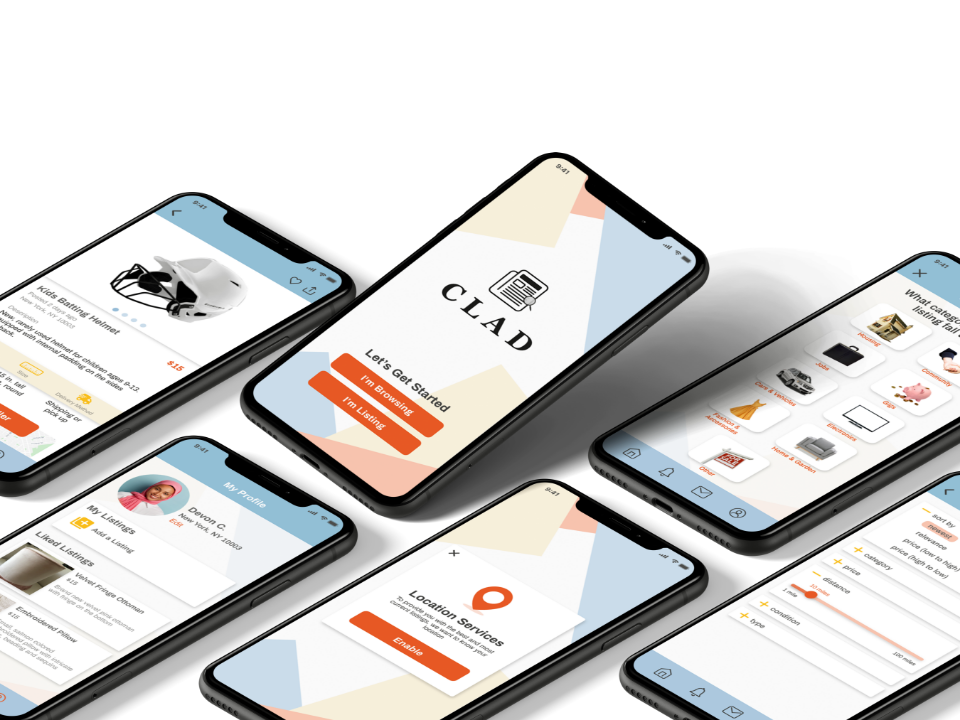
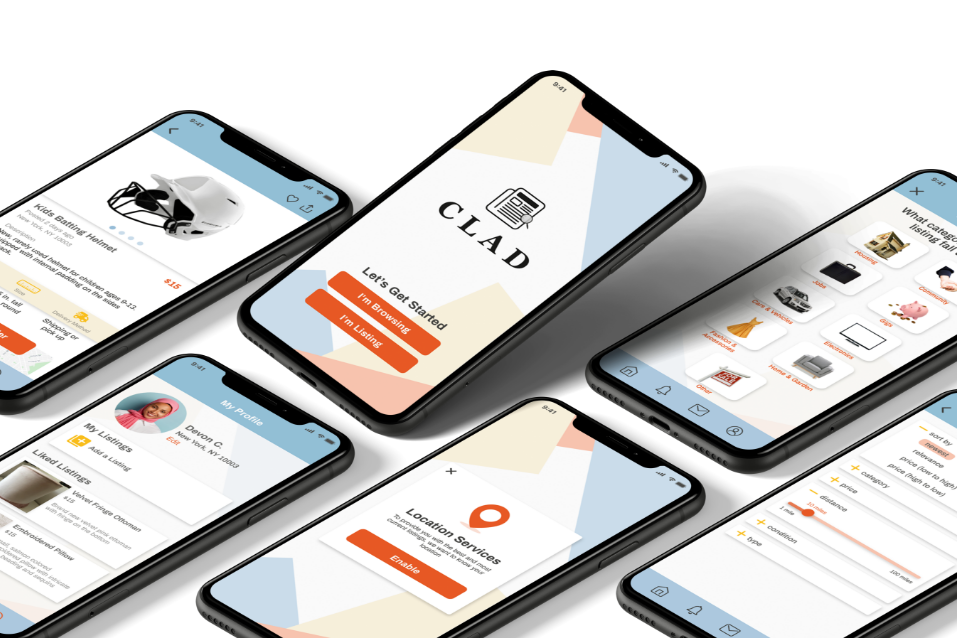
changes to clad opening images

diff --git a/clad.html b/clad.html
@@ -63,18 +63,26 @@
 	<main id="project">
 		<!--Open Main Project Section-->
 		<div class="container">
-			<div class="section">
+			<div id="clad" class="section">
 				<!-- Open Intro Section-->
 				<div class="center">
 					<h2>CLAD</h2>
 					<p class="first">A mobile application for classified ads</p>
+				</div>
+			</div> <!-- Close Intro Section-->
+		</div>
+
 					<div>
 						<picture>
-							<source srcset="img/clad/overview/opening-img.png" media="(max-width:767px)">
-							<img class="max-width-250 center padded-img" src="img/clad/overview/opening-img@2x.png" alt="CLAD project image">
+							<source srcset="img/clad/mastheads/clad-masthead-all-screens.png" media="(max-width:767px)">
+							<img src="img/clad/mastheads/clad-masthead-all-screens@2x.png" alt="CLAD project image">
 						</picture>
 					</div>
-					<div class="center">
+
+
+		<div class="container">
+			<div class="section">
+				<div class="center">
 						<div class="details">
 							<h4>Role:</h4>
 							<p>UI Designer</p>
@@ -132,10 +140,8 @@
 						</div>
 					</div>
 				</div>
-			</div> <!-- Close Intro Section-->
 
-			<div class="section">
-				<!-- Open Overview Section-->
+			<div class="section"> <!-- Open Overview Section-->
 				<div class="row">
 					<div class="col-md-6">
 						<h3>Overview</h3>
@@ -151,18 +157,7 @@
 					</div>
 				</div>
 			</div><!-- Close Overview Section-->
-		</div> <!-- Close Container-->
 
-		<div class="section">
-			<div>
-				<picture>
-					<source srcset="img/clad/mastheads/clad-masthead-all-screens.png" media="(max-width:767px)">
-					<img src="img/clad/mastheads/clad-masthead-all-screens@2x.png" alt="CLAD project image">
-				</picture>
-			</div>
-		</div>
-
-		<div class="container">
 			<div class="section">
 				<!-- Open The Problem Section-->
 				<div class="row">
@@ -370,7 +365,6 @@
 					</div>
 				</div>
 			</div> <!-- Close Final Designs Section-->
-		</div> <!-- Close Container-->
 
 		<div class="section">
 			<!-- Open Mockups Section-->
@@ -387,8 +381,8 @@
 				</picture>
 			</div>
 		</div> <!-- Close Mockups Section-->
-
-	</main> <!-- Close Main Project Section-->
+	</div> <!-- Close Container-->
+</main> <!-- Close Main Project Section-->
 
 
 

diff --git a/css/style.css b/css/style.css
@@ -344,6 +344,10 @@ ul {
   margin-bottom: 0;
 }
 
+#clad.section:first-child {
+  margin-bottom: 0;
+}
+
 .black-bg {
   background-color: #3B3B3B;
   border-radius: 15px;
@@ -779,7 +783,7 @@ Large devices (1024px or larger)
       max-height: 600px;
       width: auto;
     }
-    
+
     .max-height-350 {
       max-height: 550px;
       width: auto;
